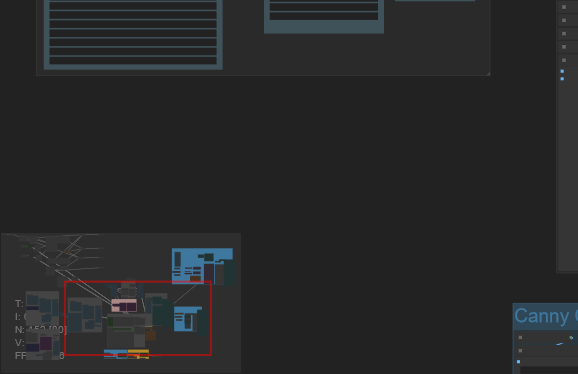
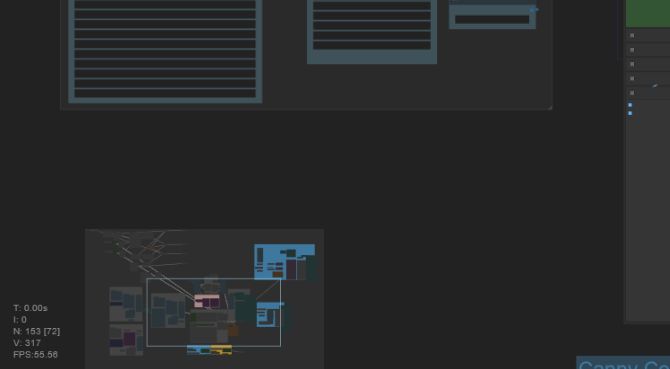
scroll adjust opacity

diff --git a/size_position.js b/size_position.js
@@ -19,14 +19,14 @@ interactScript.onload = () => {
         }
     });
 
-    // Function to save minimap settings to local storage
-    function saveMinimapSettings(top, left, width, height) {
+    // Function to save minimap settings to local storage, including opacity
+    function saveMinimapSettings(top, left, width, height, opacity) {
         const settings = {
             top: parseInt(top, 10),
             left: parseInt(left, 10),
             width: parseInt(width, 10),
             height: parseInt(height, 10),
-            opacity: 1
+            opacity: opacity
         };
         localStorage.setItem('minimapSettings', JSON.stringify(settings));
     }
@@ -44,6 +44,7 @@ interactScript.onload = () => {
             miniMapElement.style.left = `${settings.left}px`;
             miniMapElement.style.width = `${settings.width}px`;
             miniMapElement.style.height = `${settings.height}px`;
+            miniMapElement.style.opacity = settings.opacity;
         }
     }
 
@@ -57,6 +58,7 @@ interactScript.onload = () => {
                 applyMinimapSettings(miniMapElement, settings);
                 makeDraggable(miniMapElement);
                 makeResizable(miniMapElement);
+                makeScrollable(miniMapElement);  // Add scroll handling for opacity
             }
         }, 500);
     }
@@ -90,7 +92,8 @@ interactScript.onload = () => {
                     miniMapElement.style.top = `${position.y}px`;
 
                     // Save the new position to the settings
-                    saveMinimapSettings(position.y, position.x, miniMapElement.offsetWidth, miniMapElement.offsetHeight);
+                    const opacity = parseFloat(miniMapElement.style.opacity) || 1;
+                    saveMinimapSettings(position.y, position.x, miniMapElement.offsetWidth, miniMapElement.offsetHeight, opacity);
                 }
             },
             cursorChecker(action) {
@@ -137,7 +140,8 @@ interactScript.onload = () => {
                     miniGraphCanvas.height = height;
 
                     // Save the new size and position to the settings
-                    saveMinimapSettings(miniMapElement.style.top, miniMapElement.style.left, width, height);
+                    const opacity = parseFloat(miniMapElement.style.opacity) || 1;
+                    saveMinimapSettings(miniMapElement.style.top, miniMapElement.style.left, width, height, opacity);
                 }
             },
             modifiers: [
@@ -160,6 +164,26 @@ interactScript.onload = () => {
                     }
                 }
                 return null;
+            }
+        });
+    }
+
+    // Function to handle scrolling for opacity change
+    function makeScrollable(miniMapElement) {
+        miniMapElement.addEventListener('wheel', function(event) {
+            if (isCtrlPressed) {
+                event.preventDefault();  // Prevent default scroll action
+                let opacity = parseFloat(miniMapElement.style.opacity) || 1;
+                opacity += event.deltaY * -0.001;  // Adjust the opacity based on scroll direction
+                opacity = Math.min(Math.max(opacity, 0.1), 1);  // Constrain opacity between 0.1 and 1
+                miniMapElement.style.opacity = opacity;
+
+                // Save the new opacity to the settings
+                const top = parseFloat(miniMapElement.style.top);
+                const left = parseFloat(miniMapElement.style.left);
+                const width = parseFloat(miniMapElement.style.width);
+                const height = parseFloat(miniMapElement.style.height);
+                saveMinimapSettings(top, left, width, height, opacity);
             }
         });
     }

diff --git a/minimap.js b/minimap.js
@@ -1,16 +1,14 @@
-
 console.log("Graph Mirroring Script Loaded");
 
 // Function to create and inject the mini-graph canvas into the DOM
-function createMiniGraphCanvas() {
+function createMiniGraphCanvas(settings) {
     const miniGraphDiv = document.createElement('div');
     miniGraphDiv.id = 'minimap'; 
     miniGraphDiv.style.position = 'absolute';
-    miniGraphDiv.style.position = 'absolute';
-    miniGraphDiv.style.top = '0px';
-    miniGraphDiv.style.left = '0px';
-    miniGraphDiv.style.width = '240px';
-    miniGraphDiv.style.height = '140px';
+    miniGraphDiv.style.top = `${settings.top}px`;
+    miniGraphDiv.style.left = `${settings.left}px`;
+    miniGraphDiv.style.width = `${settings.width}px`;
+    miniGraphDiv.style.height = `${settings.height}px`;
     miniGraphDiv.style.border = '1px solid #222';
     miniGraphDiv.style.backgroundColor = '#4445';
     miniGraphDiv.style.zIndex = 1000;
@@ -18,8 +16,8 @@ function createMiniGraphCanvas() {
     document.body.appendChild(miniGraphDiv);
 
     const miniGraphCanvas = document.createElement('canvas');
-    miniGraphCanvas.width = 240;
-    miniGraphCanvas.height = 140;
+    miniGraphCanvas.width = settings.width;
+    miniGraphCanvas.height = settings.height;
     miniGraphDiv.appendChild(miniGraphCanvas);
 
     return miniGraphCanvas;
@@ -114,8 +112,8 @@ function drawViewportRectangle(ctx, bounds, scale) {
     const width = viewportWidth * scale;
     const height = viewportHeight * scale;
 
-    ctx.strokeStyle = 'rgba(255, 0, 0, 0.5)';
-    ctx.lineWidth = 2;
+    ctx.strokeStyle = 'rgba(168, 219, 235, 0.5)';
+    ctx.lineWidth = 1;
     ctx.strokeRect(x, y, width, height);
 }
 
@@ -150,8 +148,8 @@ function getGraphBounds(graph) {
 }
 
 // Function to initialize the mini-graph and start the rendering loop
-function initializeMiniGraph() {
-    const miniGraphCanvas = createMiniGraphCanvas();
+function initializeMiniGraph(settings) {
+    const miniGraphCanvas = createMiniGraphCanvas(settings);
 
     function updateMiniGraph() {
         renderMiniGraph(window.app.graph, miniGraphCanvas);
@@ -159,6 +157,11 @@ function initializeMiniGraph() {
 
     // Handle click events on the mini-graph canvas to center the main graph
     miniGraphCanvas.addEventListener('click', function(event) {
+        // Only proceed if the Ctrl key is not pressed
+        if (event.ctrlKey) {
+            return; // Exit the function without performing any action
+        }
+
         const rect = miniGraphCanvas.getBoundingClientRect();
         const clickX = event.clientX - rect.left;
         const clickY = event.clientY - rect.top;
@@ -188,7 +191,17 @@ function waitForAppAndGraph() {
         if (window.app && window.app.graph && window.app.graph._nodes && window.app.graph._nodes.length > 0) {
             console.log("App and Graph are ready with nodes:", window.app.graph._nodes.length);
             clearInterval(interval); // Stop checking once the app and graph are ready
-            initializeMiniGraph(); // Start the mini-graph
+
+            // Load settings from localStorage (or use defaults)
+            const settings = JSON.parse(localStorage.getItem('minimapSettings')) || {
+                top: 0,
+                left: 0,
+                width: 240,
+                height: 140,
+                opacity: 1
+            };
+
+            initializeMiniGraph(settings); // Start the mini-graph with loaded settings
         } else {
             console.log("Waiting for app and graph to be ready...");
         }

diff --git a/readme.md b/readme.md
@@ -1,12 +1,8 @@
 # Comfyui Minimap
 
-This is the initial build of a comfyui minimap.
+A minimap of your workflow that you can use to navigate.
 
-Very simple so far. It makes a copy of the workflow graph, simplified and minified, in the bottom left hand corner. It puts a red border where your viewport is. Left click on the minimap and it will move your viewport to that location.
-
-## To-do
-- I want to be able to use the scroll when cursor is over the minimap, so I can aim and zoom.
-- show groups on hover
-- add better placement options
+Resize or move by holding ctrl/command then click and drag.
+change the opacity by holding ctrl/command and scrolling.
 
 ![screenshot of the minimap](screenshot.png)
